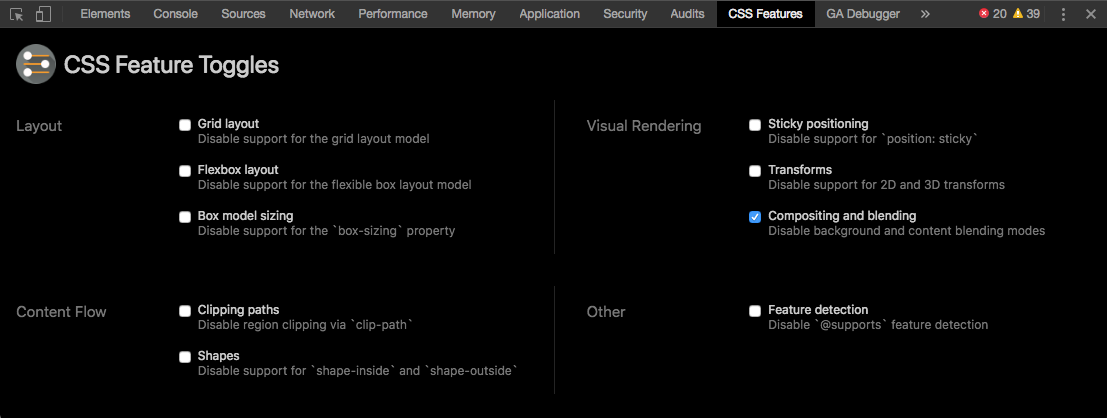
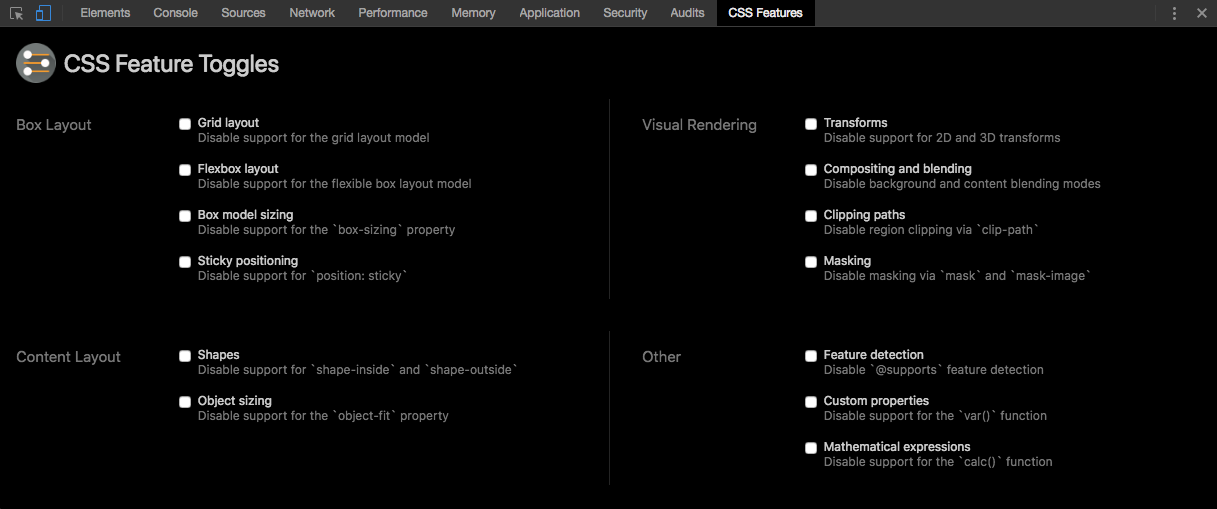
Update readme

diff --git a/readme.md b/readme.md
@@ -4,15 +4,25 @@ This devtools extension provides the ability to toggle-off CSS features, allowin
 
 ![Screengrab of the CSS Feature Toggle extension](screengrab.png)
 
-## Limitations
+## Supported features
 
-Toggling CSS features isn't supported everywhere *yet* so you should be aware of these caveats:
-
-* CSS features will only be disabled in external stylesheets and `<style>` elements of the top-level document.
-* Styles in `<iframes>` will not be disabled.
-* Inline styles (`<div style="...">`) will not be disabled.
-* Changes made to a stylesheet via the CSSOM will not be disabled.
-
+* Box Layout
+  * **Grid layout** — Disable support for the grid layout model
+  * **Flexbox layout** — Disable support for the flexible box layout model
+  * **Box model sizing** — Disable support for the `box-sizing` property
+  * **Sticky positioning** — Disable support for `position: sticky`
+* Visual Rendering
+  * **Transforms** — Disable support for 2D and 3D transforms
+  * **Compositing and blending** — Disable background and content blending modes
+  * **Clipping paths** — Disable region clipping via `clip-path`
+  * **Masking** — Disable masking via `mask` and `mask-image`
+* Content Layout
+  * **Shapes** — Disable support for `shape-inside` and `shape-outside`
+  * **Object sizing** — Disable support for the `object-fit` property
+* Other
+  * **Feature detection** — Disable `@supports` feature detection
+  * **Custom properties** — Disable support for the `var()` function
+  * **Mathematical expressions** — Disable support for the `calc()` function
 
 ## Supported browsers 
 
@@ -25,6 +35,15 @@ This extension uses devtools API features that aren't supported in Firefox yet:
   * `devtools.inspectedWindow.onResourceAdded`
   * `resource.getContent()`
   * `resource.setContent()`
+
+## Limitations
+
+Toggling CSS features isn't supported everywhere *yet* so you should be aware of these caveats:
+
+* CSS features will only be disabled in external stylesheets and `<style>` elements of the top-level document.
+* Styles in `<iframes>` will not be disabled.
+* Inline styles (`<div style="...">`) will not be disabled.
+* Changes made to a stylesheet via the CSSOM will not be disabled.
 
 ---
 
@@ -52,3 +71,4 @@ Extracted style content is passed through a series of regular expressions that r
 * `display: flex` becomes `display: -disabled-flex`
 * `@supports (...) {}` becomes `@-disabled-supports (...) {}`
 * `transform: ...` becomes `@-disabled-transform: ... {}`
+* `width: calc(...)` becomes `width: -disabled-calc(...)`
